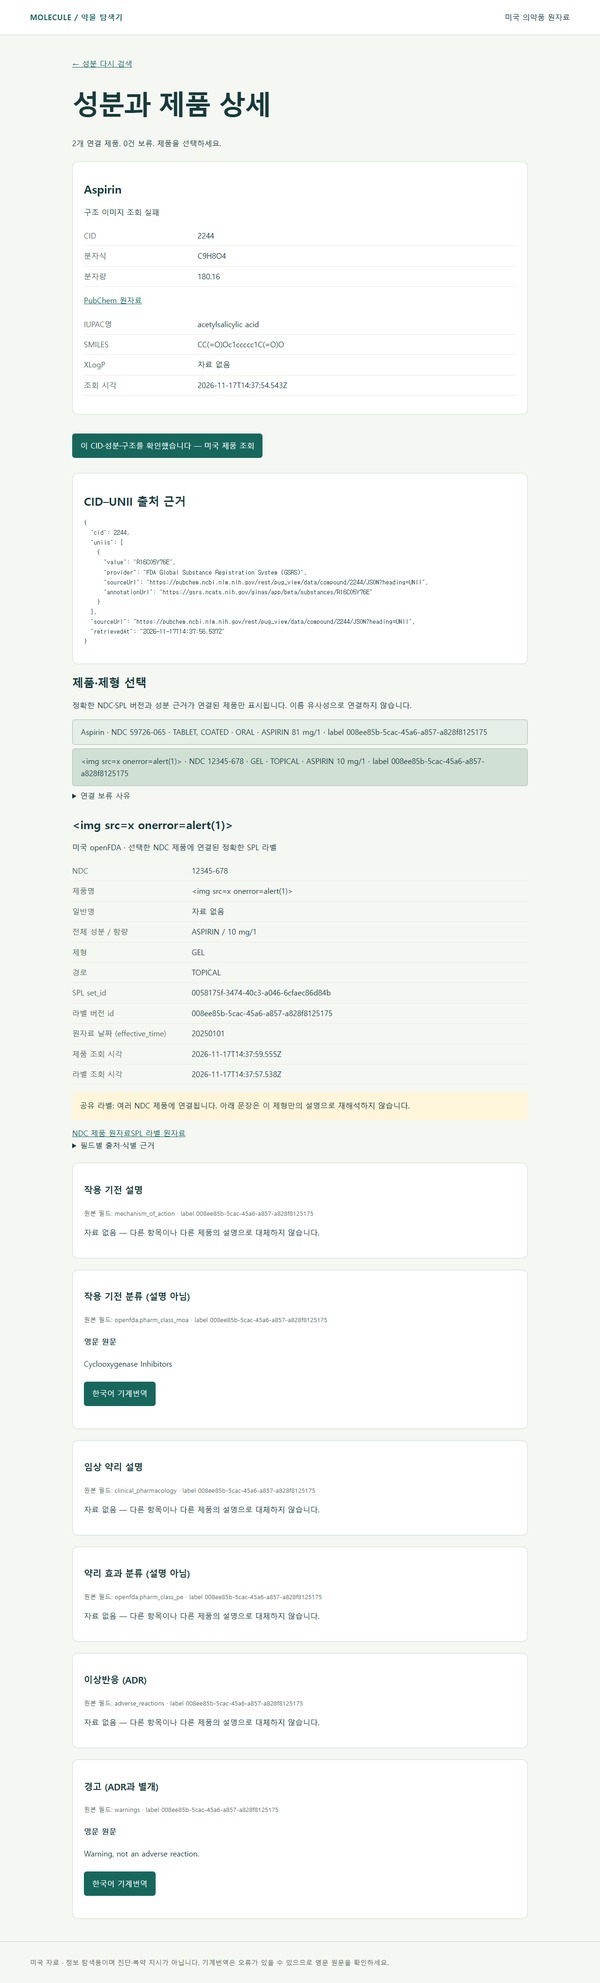
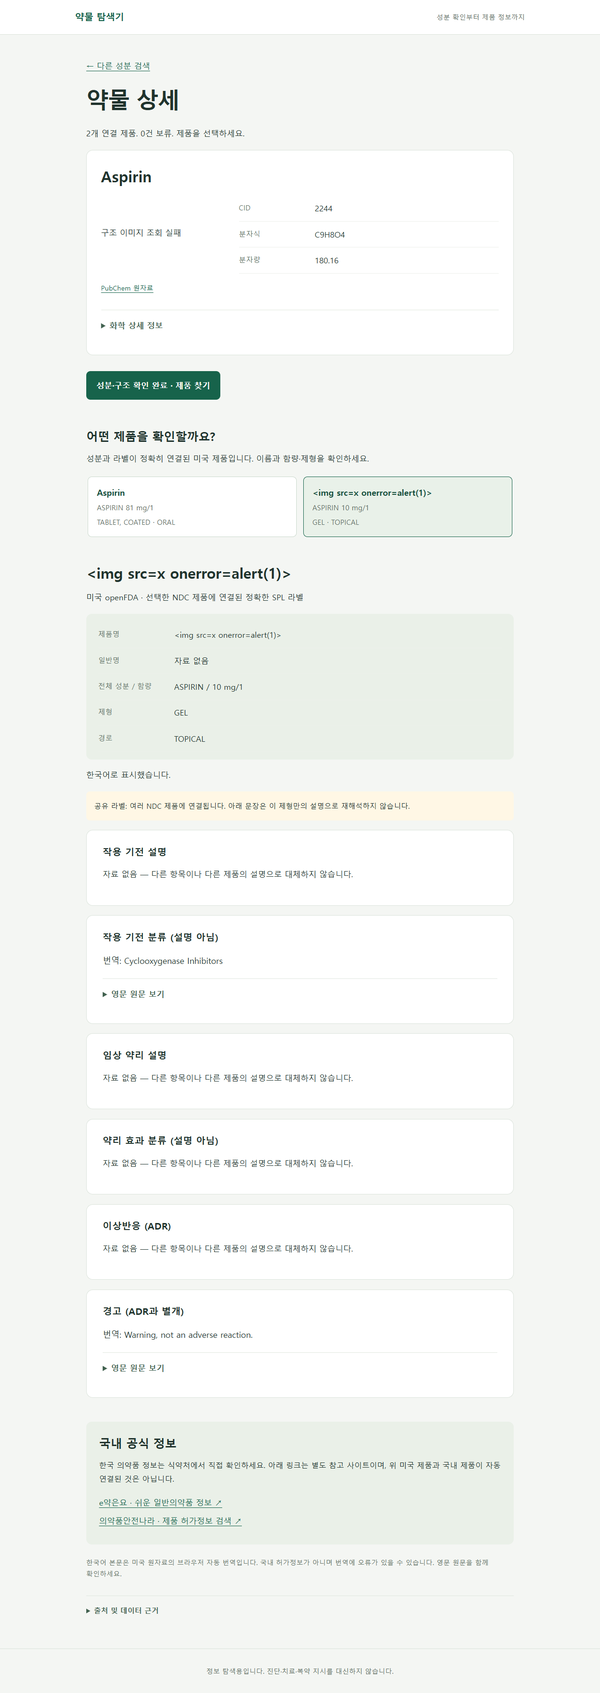
Improve Korean reading layout and translate product labels automatically

diff --git a/js/detail-page.js b/js/detail-page.js
@@ -1,7 +1,7 @@
 import {getCompound,getUnii} from './pubchem.js';
 import {findProducts} from './openfda.js';
 import {linkProducts} from './identity.js';
-import {translate} from './translator.js';
+import {prepareTranslator,translate} from './translator.js';
 import {$,el,field,link,compoundCard,status,validCid,Generation} from './render.js';
 const requests = new Generation(), selection = new Generation();
 const compoundLifetime = new AbortController();
@@ -20,32 +20,59 @@ const sections = [
 function source(parent,title,url) {if(url) parent.append(link(title,url));}
 function select(product) {
   const request = selection.next();
+  const state = el('p',undefined,'translation-state');
+  state.setAttribute('role','status');
+  const prepared = prepareTranslator('en','ko',message=>{if(request.current())status(state,message);});
   const root = $('#label'); root.replaceChildren();
   const {ndc,label,selectionKey} = product;
+  const current = () => request.current() && root.dataset.selectionKey===selectionKey;
   root.dataset.selectionKey = selectionKey;
   root.append(el('h2',ndc.brand_name || ndc.generic_name || '제품명 자료 없음'),el('p','미국 openFDA · 선택한 NDC 제품에 연결된 정확한 SPL 라벨'));
   const details = el('dl');
-  for(const [title,value] of [['NDC',ndc.product_ndc],['제품명',ndc.brand_name],['일반명',ndc.generic_name],['전체 성분 / 함량',ndc.active_ingredients?.map(x=>`${x.name ?? '자료 없음'} / ${x.strength ?? '자료 없음'}`)],['제형',ndc.dosage_form],['경로',ndc.route],['SPL set_id',label.set_id],['라벨 버전 id',label.id],['원자료 날짜 (effective_time)',label.effective_time],['제품 조회 시각',ndc._retrievedAt],['라벨 조회 시각',label._retrievedAt]]) field(details,title,value);
-  root.append(details);
+  for(const [title,value] of [['제품명',ndc.brand_name],['일반명',ndc.generic_name],['전체 성분 / 함량',ndc.active_ingredients?.map(x=>`${x.name ?? '자료 없음'} / ${x.strength ?? '자료 없음'}`)],['제형',ndc.dosage_form],['경로',ndc.route]]) field(details,title,value);
+  root.append(details,state);
   if(product.sharedLabel) root.append(el('p','공유 라벨: 여러 NDC 제품에 연결됩니다. 아래 문장은 이 제형만의 설명으로 재해석하지 않습니다.','notice'));
-  source(root,'NDC 제품 원자료',ndc._sourceUrl); source(root,'SPL 라벨 원자료',label._sourceUrl);
-  const provenance = el('details'); provenance.append(el('summary','필드별 출처·식별 근거'),el('pre',JSON.stringify(product.provenance,null,2)));root.append(provenance);
+  const provenance = $('#selected-evidence');provenance.replaceChildren(el('h3','선택 제품 출처·식별 근거'));
+  const evidenceFields = el('dl');
+  for(const [title,value] of [['NDC',ndc.product_ndc],['SPL set_id',label.set_id],['라벨 버전 id',label.id],['원자료 날짜 (effective_time)',label.effective_time],['제품 조회 시각',ndc._retrievedAt],['라벨 조회 시각',label._retrievedAt]]) field(evidenceFields,title,value);
+  provenance.append(evidenceFields,el('pre',JSON.stringify(product.provenance,null,2)));
+  source(provenance,'NDC 제품 원자료',ndc._sourceUrl);source(provenance,'SPL 라벨 원자료',label._sourceUrl);
+  const pending = [];
   for(const [title,path] of sections) {
     const value = path.split('.').reduce((v,key)=>v?.[key],label);
     const text = Array.isArray(value) ? value.join('\n\n') : value;
-    const section = el('article',undefined,'card');section.append(el('h3',title),el('small',`원본 필드: ${path} · label ${label.id}`));
-    if(!text) {section.append(el('p','자료 없음 — 다른 항목이나 다른 제품의 설명으로 대체하지 않습니다.'));root.append(section);continue;}
-    section.append(el('h4','영문 원문'),el('p',text,'source-text'));
-    const button = el('button','한국어 기계번역');const state = el('p');const translated = el('p',undefined,'translation-text');
-    button.addEventListener('click',async()=> {
-      button.disabled=true;
-      try {
-        const result=await translate(text,'en','ko',message=>{if(request.current())state.textContent=message;});
-        if(request.current() && root.dataset.selectionKey===selectionKey) {translated.textContent=result;state.textContent='한국어 기계번역 · 정확성 보장 없음';}
-      } catch(error) {if(request.current())status(state,error.message,true);}
-      finally {if(request.current())button.disabled=false;}
-    });section.append(button,state,translated);root.append(section);
+    provenance.append(el('p',`${title}: ${path} · label ${label.id}`));
+    const section = el('article',undefined,'card');section.append(el('h3',title));
+    if(!text?.trim()) {section.append(el('p','자료 없음 — 다른 항목이나 다른 제품의 설명으로 대체하지 않습니다.'));root.append(section);continue;}
+    const translated = el('p','한국어 자동 번역 대기 중…','translation-text');
+    const original = el('details');original.append(el('summary','영문 원문 보기'),el('p',text,'source-text'));
+    section.append(translated,original);root.append(section);
+    pending.push({title,text,translated});
   }
+  void (async()=>{
+    try {
+      await prepared;
+      if(!current())return;
+    } catch(error) {
+      if(current()) {
+        status(state,`한국어 번역 실패: ${error.message} 영문 원문을 펼쳐 확인하세요.`,true);
+        for(const item of pending)status(item.translated,'한국어 번역을 사용할 수 없습니다. 아래 영문 원문을 확인하세요.',true);
+      }
+      return;
+    }
+    let failures = 0;
+    for(const {title,text,translated} of pending) {
+      if(!current())return;
+      try {
+        const result=await translate(text,'en','ko',message=>{if(current())status(state,`${title}: ${message}`);});
+        if(current())status(translated,result);
+      } catch(error) {
+        failures++;
+        if(current())status(translated,`한국어 번역 실패: ${error.message} 아래 영문 원문을 확인하세요.`,true);
+      }
+    }
+    if(current())status(state,failures?`한국어 번역 ${failures}개 항목 실패 — 해당 영문 원문을 확인하세요.`:pending.length?'한국어로 표시했습니다.':'번역할 원문 자료가 없습니다.',failures>0);
+  })();
 }
 async function loadProducts() {
   const request=requests.next();$('#more').hidden=true;$('#confirm-compound').disabled=true;
@@ -59,13 +86,14 @@ async function loadProducts() {
     labels.push(...result.labels); ndcs.push(...result.ndcs); lookupHeld.push(...result.lookupHeld);
     const cumulative=linkProducts(compound.CID,evidence,labels,ndcs);
     const activeKey=$('#label').dataset.selectionKey;
-    if(activeKey && !cumulative.products.some(p=>p.selectionKey===activeKey)){selection.next();$('#label').replaceChildren();}
+    if(activeKey && !cumulative.products.some(p=>p.selectionKey===activeKey)){selection.next();$('#label').replaceChildren();$('#selected-evidence').replaceChildren();delete $('#label').dataset.selectionKey;}
     products.clear(); $('#products').replaceChildren(); $('#held').replaceChildren();
     for(const product of cumulative.products) {
       if(products.has(product.selectionKey))continue;
       products.set(product.selectionKey,product);
       const n=product.ndc;
-      const button=el('button',`${n.brand_name || n.generic_name || '제품명 자료 없음'} · NDC ${n.product_ndc} · ${n.dosage_form || '제형 자료 없음'} · ${n.route?.join(', ') || '경로 자료 없음'} · ${n.active_ingredients?.map(x=>`${x.name} ${x.strength || '함량 자료 없음'}`).join(' + ')} · label ${product.label.id}`,'product');
+      const button=el('button',undefined,'product');
+      button.append(el('strong',n.brand_name || n.generic_name || '제품명 자료 없음','product-name'),el('span',n.active_ingredients?.map(x=>`${x.name || '성분 자료 없음'} ${x.strength || '함량 자료 없음'}`).join(' + ') || '성분 자료 없음','product-ingredients'),el('span',`${n.dosage_form || '제형 자료 없음'} · ${n.route?.join(', ') || '경로 자료 없음'}`,'product-meta'));
       button.addEventListener('click',()=>select(product));$('#products').append(button);
     }
     for(const item of [...cumulative.held,...lookupHeld]) $('#held').append(el('p',typeof item==='string'?item:JSON.stringify(item)));
@@ -79,7 +107,7 @@ async function loadProducts() {
   }
   finally {if(request.current())$('#confirm-compound').disabled=false;}
 }
-$('#confirm-compound').addEventListener('click',()=>{skip=0;labels=[];ndcs=[];lookupHeld=[];products.clear();$('#products').replaceChildren();$('#held').replaceChildren();selection.next();$('#label').replaceChildren();loadProducts();});
+$('#confirm-compound').addEventListener('click',()=>{skip=0;labels=[];ndcs=[];lookupHeld=[];products.clear();$('#products').replaceChildren();$('#held').replaceChildren();selection.next();$('#label').replaceChildren();$('#selected-evidence').replaceChildren();delete $('#label').dataset.selectionKey;loadProducts();});
 $('#more').addEventListener('click',loadProducts);
 const cid=new URLSearchParams(location.search).get('cid');
 if(!validCid(cid)) status($('#status'),'유효하지 않은 CID입니다. 검색 화면에서 성분을 선택하세요.',true);
@@ -88,7 +116,8 @@ else {
     compound=await getCompound(cid,{signal:compoundLifetime.signal});
     const card=compoundCard(compound,{signal:compoundLifetime.signal}), fields=el('dl');
     for(const [title,value] of [['IUPAC명',compound.IUPACName],['SMILES',compound.ConnectivitySMILES],['XLogP',compound.XLogP],['조회 시각',compound.retrievedAt]])field(fields,title,value);
-    card.append(fields);$('#compound').append(card);$('#confirm-compound').hidden=false;
+    const chemicalDetails=el('details');chemicalDetails.append(el('summary','화학 상세 정보'),fields);
+    card.append(chemicalDetails);$('#compound').append(card);$('#confirm-compound').hidden=false;
     status($('#status'),'CID와 구조를 확인하세요. 직접 접근·새로고침에서도 제품 조회 전 확인이 필요합니다.');
   } catch(error) {status($('#status'),error.message,true);}
 }

diff --git a/assets/styles.css b/assets/styles.css
@@ -1,1 +1,1 @@
-:root{font-family:system-ui,-apple-system,"Segoe UI",sans-serif;color:#173a3a;background:#f5f7f2;font-size:16px;line-height:1.65}*{box-sizing:border-box}body{margin:0}header{display:flex;justify-content:space-between;gap:1rem;flex-wrap:wrap;padding:1.5rem 5vw;border-bottom:1px solid #cbd6cc;background:#fff}.brand{font-weight:800;letter-spacing:.04em;text-decoration:none}main{max-width:1020px;margin:3rem auto;padding:0 1.5rem}h1{font-size:clamp(2rem,5vw,3.6rem);line-height:1.15;letter-spacing:-.04em}h2{line-height:1.3}a{color:#12645d}button,.button{background:#17675d;color:white;border:0;border-radius:6px;padding:.8rem 1.1rem;cursor:pointer;font:inherit;display:inline-block;text-decoration:none;margin:.5rem .5rem .5rem 0}button:hover,.button:hover{background:#114e46}button:disabled{opacity:.6;cursor:wait}input{font:inherit;padding:.85rem;border:1px solid #819d96;border-radius:6px;min-width:0;width:100%;background:#fff}label{display:block;font-weight:600}.input-row{display:flex;gap:.7rem;align-items:center}.input-row input{flex:1}.input-row button{white-space:nowrap}.card{background:#fff;border:1px solid #cedad0;border-radius:12px;padding:1.5rem;margin:1.5rem 0}.field{display:grid;grid-template-columns:minmax(130px,1fr) 3fr;border-bottom:1px solid #e5ebe5;padding:.5rem 0;gap:1rem}dt{color:#4f685f}dd{margin:0;overflow-wrap:anywhere}img{object-fit:contain;background:#fff;max-width:100%}article>a{margin-right:1rem}.eyebrow{letter-spacing:.15em;font-size:.8rem;color:#576e60;font-weight:700}footer{border-top:1px solid #cbd6cc;padding:2rem 5vw;color:#52665c;font-size:.9rem}.error{color:#9c2929;background:#fff0eb;padding:1rem;border-left:4px solid #b74430}.notice{background:#fff5da;padding:1rem}.source-text,.translation-text{white-space:pre-wrap;overflow-wrap:anywhere}.translation-text{border-left:3px solid #348978;padding-left:1rem}.product{display:block;width:100%;text-align:left;background:#e5eee7;color:#173a3a;border:1px solid #a6beb1}.product:hover{background:#d0e0d4}pre{white-space:pre-wrap;overflow-wrap:anywhere;font-size:.8rem}small{color:#52665c}section{margin-bottom:2rem}[hidden]{display:none!important}:focus-visible{outline:3px solid #b47614;outline-offset:3px}@media(max-width:600px){.input-row{display:block}.field{grid-template-columns:1fr;gap:.1rem}main{margin:2rem auto}}
+:root{font-family:system-ui,-apple-system,"Segoe UI",sans-serif;color:#20332d;background:#f4f6f3;font-size:17px;line-height:1.8;font-synthesis:none}*{box-sizing:border-box}body{margin:0}header{display:flex;justify-content:space-between;align-items:center;gap:1rem;padding:1.1rem max(24px,calc((100vw - 960px)/2));border-bottom:1px solid #dbe3db;background:#fff}header span{font-size:.85rem;color:#5e6e65}.brand{font-weight:800;font-size:1.15rem;text-decoration:none}main{max-width:960px;margin:3rem auto;padding:0 24px}h1{font-size:clamp(2rem,4vw,2.8rem);line-height:1.4;letter-spacing:-.04em;margin:1.4rem 0}h2{font-size:1.45rem;line-height:1.5;margin:0 0 .8rem}h3{font-size:1.2rem;line-height:1.5;margin:0 0 1rem}p{margin:.7rem 0 1.2rem;word-break:keep-all;overflow-wrap:anywhere}a{color:#17634b;text-underline-offset:4px}button,.button{background:#17634b;color:#fff;border:1px solid transparent;border-radius:9px;padding:.85rem 1.2rem;cursor:pointer;font:inherit;font-weight:600;display:inline-block;text-decoration:none;margin:.5rem .5rem .5rem 0}button:hover,.button:hover{background:#104a38}button:disabled{opacity:.6;cursor:wait}input{font:inherit;padding:.95rem;border:1px solid #8da598;border-radius:9px;min-width:0;width:100%;background:#fff}label{display:block;font-weight:600;margin-bottom:.5rem}.input-row{display:flex;gap:.6rem;align-items:center}.input-row input{flex:1}.input-row button{white-space:nowrap}.card{background:#fff;border:1px solid #dce4dc;border-radius:14px;padding:1.8rem;margin:1.2rem 0}.field{display:grid;grid-template-columns:145px 1fr;border-bottom:1px solid #edf0eb;padding:.7rem 0;gap:1rem}dt{color:#647469;font-size:.9rem}dd{margin:0;overflow-wrap:anywhere;font-weight:500}img{object-fit:contain;background:#fff;max-width:100%}#compound>.card,#results>.card{display:grid;grid-template-columns:260px 1fr;gap:1rem 2rem;align-items:center}#compound>.card>h2,#results>.card>h2{grid-column:1/-1;font-size:1.9rem;margin:0}#compound>.card>details,#results>.card>.button{grid-column:1/-1}#compound>.card>img,#results>.card>img{width:240px;height:190px}#compound>.card>dl,#results>.card>dl{margin:0}#compound>.card>a,#results>.card>a:not(.button){font-size:.85rem}footer{border-top:1px solid #dbe3db;padding:2rem 24px;color:#637066;font-size:.85rem;text-align:center}.error{color:#8e3028;background:#fff1ed;padding:1rem;border-left:4px solid #bd5543}.notice{background:#fff7e5;padding:1rem;border-radius:8px;font-size:.9rem}.source-text,.translation-text{white-space:pre-wrap;overflow-wrap:anywhere;line-height:1.95}.translation-text{font-size:1.05rem;color:#20332d}.source-text{color:#58665e;font-size:.9rem}.product-section{margin:3rem 0}#products{display:grid;grid-template-columns:1fr 1fr;gap:.8rem;max-height:480px;overflow:auto;padding:3px}.product{display:flex;flex-direction:column;gap:.35rem;width:100%;text-align:left;background:white;color:#20332d;border:1px solid #cbd9cd;margin:0;padding:1.1rem;font-weight:400;font-size:.9rem;line-height:1.6}.product strong{font-size:1.05rem;color:#174e3b}.product span{display:block;color:#5e6e65}.product:hover,.product[aria-pressed=true]{background:#e9f1e9;border-color:#17634b}.product:focus-visible{outline-offset:-3px}#label{margin:3rem 0}#label>h2{font-size:1.8rem}#label>dl{background:#eaf0e8;border-radius:12px;padding:1rem 1.5rem}#label article{padding:1.8rem 2rem}details{border-top:1px solid #e0e7df;padding:1rem 0;margin-top:1rem}summary{cursor:pointer;font-weight:600;color:#41614f}details[open]>summary{margin-bottom:1rem}.reference-card{background:#eaf0e8;padding:1.6rem;border-radius:12px;margin:3rem 0 1.5rem}.reference-card p{font-size:.95rem}.reference-card a{display:block;margin:.5rem 0}.translation-note{font-size:.85rem;color:#657368;line-height:1.7}.evidence{margin-top:2rem;font-size:.9rem}.evidence pre{font-size:.8rem;white-space:pre-wrap;overflow-wrap:anywhere;background:#fff;padding:1rem}.evidence a{display:block;margin:.4rem 0}.evidence .field{grid-template-columns:170px 1fr}small{color:#617267}section{margin-bottom:1.5rem}[hidden]{display:none!important}:focus-visible{outline:3px solid #aa741f;outline-offset:3px}@media(max-width:650px){header span{display:none}main{margin:1.5rem auto;padding:0 18px}.input-row{display:block}#products{grid-template-columns:1fr;max-height:420px}#compound>.card,#results>.card{grid-template-columns:1fr;gap:.8rem}.field,.evidence .field{grid-template-columns:1fr;gap:.1rem}.card,#label article{padding:1.3rem}h1{font-size:2rem}#compound>.card>img,#results>.card>img{margin:auto}}

diff --git a/tests/auto-browser.js b/tests/auto-browser.js
@@ -1,0 +1,19 @@
+import {chromium} from '@playwright/test';
+import assert from 'node:assert/strict';
+import {readFile,writeFile} from 'node:fs/promises';
+import {server} from '../tools/serve.js';
+await new Promise(r=>server.listening?r():server.once('listening',r));
+const fixture=JSON.parse(await readFile('tests/fixtures/labels.json'));
+const unii=JSON.parse(await readFile('docs/evidence/api-browser.json')).results.find(x=>x.url.includes('pug_view')).body;
+const b=await chromium.launch({channel:'chrome'});const p=await b.newPage();const report={schemaVersion:1,kind:'browser-automation',steps:[]};
+await p.addInitScript(()=>{window.modelCreates=0;window.activation=[];window.failModel=false;window.Translator={create:()=>{window.modelCreates++;window.activation.push(navigator.userActivation.isActive);if(window.failModel)return Promise.reject(new Error('모델 다운로드 실패'));return Promise.resolve({translate:async text=>{await new Promise(r=>setTimeout(r,180));return '한국어: '+text;}});}};});
+await p.route('https://pubchem.ncbi.nlm.nih.gov/**',r=>r.fulfill(r.request().url().includes('pug_view')?{json:unii}:r.request().url().endsWith('/PNG')?{status:404,body:''}:{json:{PropertyTable:{Properties:[{CID:2244,Title:'Aspirin'}]}}}));
+await p.route('https://api.fda.gov/**',r=>{const u=new URL(r.request().url());const records=u.pathname.includes('label')?fixture.labels:fixture.ndcs.filter(n=>u.searchParams.get('search').includes(n.product_ndc));return r.fulfill({json:{meta:{results:{total:records.length}},results:records}});});
+async function open(){await p.goto('http://127.0.0.1:4173/detail.html?cid=2244');await p.locator('#confirm-compound').waitFor();await p.locator('#confirm-compound').click();await p.locator('#products button').first().waitFor();}
+try{
+ await open();await p.locator('#products button').first().click();await p.locator('#products button').nth(1).click();await p.waitForFunction(()=>document.querySelector('.translation-state').textContent==='한국어로 표시했습니다.');
+ assert.equal(await p.evaluate(()=>window.modelCreates),1);assert.deepEqual(await p.evaluate(()=>window.activation),[true]);assert.equal(await p.locator('#label button').count(),0);assert.match(await p.locator('#label').innerText(),/GEL/);assert.equal(await p.locator('#label details[open]').count(),0);assert.equal(await p.locator('#data-evidence').getAttribute('open'),null);assert(!await p.locator('#products').innerText().then(x=>x.includes(fixture.labels[0].id)));report.steps.push({action:'Product gesture automatically starts shared model with activation; rapid switch keeps B; originals and provenance collapsed',verdict:'passed'});
+ await open();await p.evaluate(()=>window.failModel=true);await p.locator('#products button').first().click();await p.waitForFunction(()=>document.querySelector('.translation-state').classList.contains('error'));assert.match(await p.locator('.translation-state').innerText(),/다운로드 실패/);await p.locator('#label details').first().locator('summary').click();assert(await p.locator('#label .source-text').first().isVisible());report.steps.push({action:'Automatic download failure explicit with usable original text',verdict:'passed'});
+ await p.evaluate(()=>window.failModel=false);await p.locator('#products button').nth(1).click();await p.waitForFunction(()=>document.querySelector('.translation-state').textContent==='한국어로 표시했습니다.');assert.equal(await p.evaluate(()=>window.modelCreates),2);report.steps.push({action:'Subsequent product gesture retries rejected model successfully',verdict:'passed'});
+ await p.screenshot({path:'docs/evidence/auto-browser.png',fullPage:true});report.status='passed';
+}catch(e){report.status='failed';report.error=e.stack;process.exitCode=1;}await writeFile('docs/evidence/auto-browser.json',JSON.stringify(report,null,2));console.log(report);await b.close();server.close();

diff --git a/detail.html b/detail.html
@@ -1,1 +1,12 @@
-<!doctype html><html lang="ko"><head><meta charset="utf-8"><meta name="viewport" content="width=device-width,initial-scale=1"><title>성분과 제품 상세 · 약물 탐색기</title><link rel="stylesheet" href="./assets/styles.css"></head><body><header><a class="brand" href="./index.html">MOLECULE / 약물 탐색기</a><span>미국 의약품 원자료</span></header><main><a href="./index.html">← 성분 다시 검색</a><h1>성분과 제품 상세</h1><p id="status" role="status" aria-live="polite"></p><section id="compound"></section><button id="confirm-compound" hidden>이 CID·성분·구조를 확인했습니다 — 미국 제품 조회</button><section id="identity" class="card" hidden></section><section aria-label="미국 제품"><h2>제품·제형 선택</h2><p>정확한 NDC·SPL 버전과 성분 근거가 연결된 제품만 표시됩니다. 이름 유사성으로 연결하지 않습니다.</p><div id="products"></div><button id="more" hidden>다음 20개 라벨 조회</button><details><summary>연결 보류 사유</summary><div id="held"></div></details></section><section id="label" aria-label="선택 제품 원자료"></section></main><footer>미국 자료 · 정보 탐색용이며 진단·복약 지시가 아닙니다. 기계번역은 오류가 있을 수 있으므로 영문 원문을 확인하세요.</footer><script type="module" src="./js/detail-page.js"></script></body></html>
+<!doctype html>
+<html lang="ko"><head><meta charset="utf-8"><meta name="viewport" content="width=device-width,initial-scale=1"><title>약물 상세 · 약물 탐색기</title><link rel="stylesheet" href="./assets/styles.css"></head>
+<body><header><a class="brand" href="./index.html">약물 탐색기</a><span>성분 확인부터 제품 정보까지</span></header><main>
+<a href="./index.html">← 다른 성분 검색</a><h1>약물 상세</h1><p id="status" role="status" aria-live="polite"></p>
+<section id="compound" aria-label="성분과 주요 물성"></section>
+<button id="confirm-compound" hidden>성분·구조 확인 완료 · 제품 찾기</button>
+<section class="product-section" aria-label="제품 선택"><h2>어떤 제품을 확인할까요?</h2><p>성분과 라벨이 정확히 연결된 미국 제품입니다. 이름과 함량·제형을 확인하세요.</p><div id="products"></div><button id="more" hidden>제품 더 보기 · 다음 20개 라벨</button></section>
+<section id="label" aria-label="선택한 제품의 약물 정보"></section>
+<aside class="reference-card"><h2>국내 공식 정보</h2><p>한국 의약품 정보는 식약처에서 직접 확인하세요. 아래 링크는 별도 참고 사이트이며, 위 미국 제품과 국내 제품이 자동 연결된 것은 아닙니다.</p><a href="https://nedrug.mfds.go.kr/searchEasyDrug" target="_blank" rel="noopener noreferrer">e약은요 · 쉬운 일반의약품 정보 ↗</a><a href="https://nedrug.mfds.go.kr/searchDrug" target="_blank" rel="noopener noreferrer">의약품안전나라 · 제품 허가정보 검색 ↗</a></aside>
+<p class="translation-note">한국어 본문은 미국 원자료의 브라우저 자동 번역입니다. 국내 허가정보가 아니며 번역에 오류가 있을 수 있습니다. 영문 원문을 함께 확인하세요.</p>
+<details id="data-evidence" class="evidence"><summary>출처 및 데이터 근거</summary><section id="identity" hidden></section><section id="selected-evidence"></section><details><summary>연결 보류 항목과 사유</summary><div id="held"></div></details></details>
+</main><footer>정보 탐색용입니다. 진단·치료·복약 지시를 대신하지 않습니다.</footer><script type="module" src="./js/detail-page.js"></script></body></html>

diff --git a/js/translator.js b/js/translator.js
@@ -1,23 +1,58 @@
 const models = new Map();
 const cache = new Map();
-export async function translate(text, sourceLanguage, targetLanguage, onState = () => {}) {
-  if (!globalThis.Translator) throw new Error('이 Chrome에서 기본 Translator API를 사용할 수 없습니다. 영어 입력과 원문 조회는 가능합니다.');
+let queue = Promise.resolve();
+
+export function prepareTranslator(sourceLanguage, targetLanguage, onState = () => {}) {
   const pair = `${sourceLanguage}:${targetLanguage}`;
-  const key = `${pair}:${text}`;
-  if (cache.has(key)) { onState('준비 완료 (세션 캐시)'); return cache.get(key); }
-  const options = { sourceLanguage, targetLanguage };
-  if (!models.has(pair)) {
-    const availability = await Translator.availability(options);
-    if (availability === 'unavailable') throw new Error('해당 언어의 번역 모델을 사용할 수 없습니다.');
-    onState(availability === 'available' ? '모델 준비 중' : '번역 모델 다운로드 중 — 최초 실행은 시간이 걸릴 수 있습니다.');
-    const model = await Translator.create({ ...options, monitor(m) {
-      m.addEventListener('downloadprogress', e => onState(`모델 다운로드 ${Math.round(e.loaded * 100)}%`));
-    } });
-    models.set(pair, model);
+  const existing = models.get(pair);
+  if (existing) {
+    if (!existing.ready) existing.listeners.add(onState);
+    onState(existing.state);
+    return existing.promise;
   }
-  onState('번역 중');
-  const result = await models.get(pair).translate(text);
-  cache.set(key, result);
-  onState('준비 완료');
-  return result;
+  const entry = {listeners: new Set([onState]), state: '번역 모델 준비 중 — 최초 실행은 다운로드가 필요할 수 있습니다.', ready: false};
+  const notify = message => {
+    entry.state = message;
+    for (const listener of entry.listeners) listener(message);
+  };
+  notify(entry.state);
+  let creation;
+  try {
+    if (!globalThis.Translator) throw new Error('이 Chrome에서 기본 Translator API를 사용할 수 없습니다. 영어 입력과 원문 조회는 가능합니다.');
+    // Keep create in the product-click activation stack: never await availability here.
+    creation = globalThis.Translator.create({sourceLanguage, targetLanguage, monitor(m) {
+      notify('번역 모델 다운로드 중 — 최초 실행은 시간이 걸릴 수 있습니다.');
+      m.addEventListener('downloadprogress', e => notify(`모델 다운로드 ${Math.round(e.loaded * 100)}%`));
+    }});
+  } catch (error) {
+    creation = Promise.reject(error);
+  }
+  entry.promise = Promise.resolve(creation).then(model => {
+    entry.ready = true;
+    notify('번역 모델 준비 완료');
+    entry.listeners.clear();
+    return model;
+  }, error => {
+    if (models.get(pair) === entry) models.delete(pair);
+    entry.listeners.clear();
+    throw error;
+  });
+  models.set(pair, entry);
+  return entry.promise;
+}
+
+export async function translate(text, sourceLanguage, targetLanguage, onState = () => {}) {
+  const key = `${sourceLanguage}:${targetLanguage}:${text}`;
+  if (cache.has(key)) { onState('준비 완료 (세션 캐시)'); return cache.get(key); }
+  const model = await prepareTranslator(sourceLanguage, targetLanguage, onState);
+  const work = queue.then(async () => {
+    if (cache.has(key)) { onState('준비 완료 (세션 캐시)'); return cache.get(key); }
+    onState('번역 중');
+    const result = await model.translate(text);
+    cache.set(key, result);
+    onState('준비 완료');
+    return result;
+  });
+  queue = work.catch(() => {});
+  return work;
 }

diff --git a/tests/browser.js b/tests/browser.js
@@ -34,7 +34,7 @@ try {
  await step('Rapid search cancels stale result',async()=>{await page.locator('#query').fill('slow');await page.locator('#search-form button').click();await page.locator('#query').fill('aspirin');await page.locator('#search-form button').click();await page.locator('#results .button').waitFor();await page.waitForTimeout(300);assert(!await page.locator('#results').innerText().then(x=>x.includes('STALE')));});
  await step('Detail refresh requires explicit CID confirmation',async()=>{await page.locator('#results .button').click();await page.locator('#confirm-compound').waitFor();await page.reload();await page.locator('#confirm-compound').waitFor();assert.equal(await page.locator('#products button').count(),0);});
  await step('Shared label creates only actual NDC products and escaped malicious text',async()=>{await page.locator('#confirm-compound').click();await page.waitForFunction(()=>document.querySelectorAll('#products button').length===2);assert.equal(await page.locator('#products img').count(),0);await page.locator('#products button').first().click();assert.match(await page.locator('#label').innerText(),/TABLET, COATED/);assert.match(await page.locator('#label').innerText(),/이상반응 \(ADR\)[\s\S]*자료 없음/);});
- await step('Late translation cannot overwrite different product sharing label',async()=>{await page.locator('#label button').first().click();await page.locator('#products button').nth(1).click();await page.waitForTimeout(400);assert.match(await page.locator('#label').innerText(),/GEL/);assert.equal(await page.locator('#label .translation-text').allTextContents().then(x=>x.join('')),'');assert.equal(await page.locator('#label img').count(),0);});
+ await step('Late translation cannot overwrite different product sharing label',async()=>{await page.locator('#products button').nth(1).click();await page.waitForTimeout(400);assert.match(await page.locator('#label').innerText(),/GEL/);await page.waitForFunction(()=>document.querySelector('#label .translation-state').textContent==='한국어로 표시했습니다.');assert.equal(await page.locator('#label button').count(),0);assert.equal(await page.locator('#data-evidence').getAttribute('open'),null);assert.equal(await page.locator('#label img').count(),0);});
  await page.screenshot({path:'docs/evidence/browser-adversarial.png',fullPage:true});
  assert.deepEqual(errors,[]);
  transcript.status='passed';

diff --git a/index.html b/index.html
@@ -1,9 +1,9 @@
 <!doctype html>
 <html lang="ko"><head><meta charset="utf-8"><meta name="viewport" content="width=device-width, initial-scale=1"><title>약물 탐색기 · PubChem</title><link rel="stylesheet" href="./assets/styles.css"></head>
-<body><header><a href="./index.html" class="brand">MOLECULE / 약물 탐색기</a><span>PubChem × openFDA</span></header><main>
-<p class="eyebrow">SOURCE-FIRST DRUG EXPLORER</p><h1>성분에서 시작하는<br>약물 정보 탐색</h1><p>한글 또는 영문으로 검색하고, 화학 구조와 성분을 확인하세요.</p>
+<body><header><a href="./index.html" class="brand">약물 탐색기</a><span>성분 확인부터 제품 정보까지</span></header><main>
+<h1>궁금한 약의 성분을<br>찾아보세요</h1><p>성분과 구조를 확인하고, 제품별 정보를 한국어로 읽어보세요.</p>
 <form id="search-form"><label for="query">성분명</label><div class="input-row"><input id="query" name="query" required maxlength="200" placeholder="예: 아스피린 / aspirin" autocomplete="off"><button>후보 검색</button></div></form>
 <p id="status" role="status" aria-live="polite"></p>
-<section id="translation" hidden class="card"><h2>영문 번역 후보 확인</h2><p id="original"></p><label for="candidate">기계번역 후보 — 성분명이 맞는지 확인하고 수정하세요.</label><input id="candidate" maxlength="200"><button id="confirm-translation" type="button">이 후보로 PubChem 검색</button></section>
+<section id="translation" hidden class="card"><h2>검색할 성분을 확인하세요</h2><p id="original"></p><label for="candidate">영문 후보 — 성분명이 맞는지 확인하고 수정하세요.</label><input id="candidate" maxlength="200"><button id="confirm-translation" type="button">이 성분으로 검색</button></section>
 <section id="results" aria-label="성분 후보"></section>
 </main><footer>미국 자료 · 정보 탐색용이며 의료 조언이 아닙니다. 제품·제형·라벨은 성분 확인 후 별도 선택합니다.<br>한국어 번역: PC Chrome 기본 Translator, 최초 모델 다운로드 필요. 미지원 시 영어 조회 가능.</footer><script type="module" src="./js/search-page.js"></script></body></html>

diff --git a/tools/translation-probe.js b/tools/translation-probe.js
@@ -13,7 +13,7 @@ try {
   const row={input:name,status:await page.locator('#status').innerText(),candidate:await page.locator('#candidate').inputValue()};
   await page.locator('#confirm-translation').click(); await page.locator('#results .button').first().waitFor({timeout:60000});row.pubchem=await page.locator('#results').innerText();report.results.push(row);
  }
- await page.goto('http://127.0.0.1:4173/detail.html?cid=2244');await page.locator('#confirm-compound').waitFor({timeout:60000});await page.locator('#confirm-compound').click();await page.locator('#products button').first().waitFor({timeout:180000});await page.locator('#products button').first().click();await page.locator('#label button').first().click();await page.waitForFunction(()=>[...document.querySelectorAll('.translation-text')].some(x=>x.textContent.trim()),{},{timeout:240000});report.englishToKorean={selectionKey:await page.locator('#label').getAttribute('data-selection-key'),source:await page.locator('#label .source-text').first().innerText(),translated:await page.locator('#label .translation-text').first().innerText()};
+ await page.goto('http://127.0.0.1:4173/detail.html?cid=2244');await page.locator('#confirm-compound').waitFor({timeout:60000});await page.locator('#confirm-compound').click();await page.locator('#products button').first().waitFor({timeout:180000});await page.locator('#products button').first().click();await page.waitForFunction(()=>document.querySelector('.translation-state')?.textContent==='한국어로 표시했습니다.',{},{timeout:240000});report.englishToKorean={selectionKey:await page.locator('#label').getAttribute('data-selection-key'),source:await page.locator('#label .source-text').first().textContent(),translated:await page.locator('#label .translation-text').first().innerText()};
 }catch(error){report.error=error.message;report.lastStatus=await page.locator('#status').innerText().catch(()=> 'browser closed');}
 await page.screenshot({path:'docs/evidence/translation-browser.png',fullPage:true}).catch(()=>{});
 await writeFile('docs/evidence/translation-browser.json',JSON.stringify(report,null,2));console.log(report);await browser.close();server.close();

diff --git a/tests/translator.test.js b/tests/translator.test.js
@@ -1,0 +1,13 @@
+import test from 'node:test';
+import assert from 'node:assert/strict';
+const fresh=()=>import(`../js/translator.js?test=${Math.random()}`);
+test('create starts synchronously; same pair shares pending promise; translations are sequential and cached',async()=>{
+ const original=globalThis.Translator;let creates=0,release,active=0,max=0,calls=0;
+ globalThis.Translator={create:()=>{creates++;return new Promise(r=>release=()=>r({translate:async text=>{calls++;active++;max=Math.max(max,active);await new Promise(r=>setTimeout(r,10));active--;return '한국어 '+text;}}));}};
+ try{const m=await fresh();const a=m.prepareTranslator('en','ko');assert.equal(creates,1);assert.equal(m.prepareTranslator('en','ko'),a);release();await a;assert.deepEqual(await Promise.all([m.translate('a','en','ko'),m.translate('b','en','ko'),m.translate('a','en','ko')]),['한국어 a','한국어 b','한국어 a']);assert.equal(max,1);assert.equal(calls,2);assert.equal(creates,1);}finally{globalThis.Translator=original;}
+});
+test('failed model creation is evicted and next gesture retries; failed translation does not poison queue',async()=>{
+ const original=globalThis.Translator;let creates=0;
+ globalThis.Translator={create:()=>{if(++creates===1)return Promise.reject(new Error('download failed'));return Promise.resolve({translate:async text=>{if(text==='bad')throw new Error('translation failed');return '번역 '+text;}});}};
+ try{const m=await fresh();await assert.rejects(m.prepareTranslator('en','ko'),/download failed/);await m.prepareTranslator('en','ko');await assert.rejects(m.translate('bad','en','ko'),/translation failed/);assert.equal(await m.translate('ok','en','ko'),'번역 ok');assert.equal(creates,2);}finally{globalThis.Translator=original;}
+});

diff --git a/tools/pages-probe.js b/tools/pages-probe.js
@@ -20,8 +20,8 @@ try{
   await page.waitForFunction(()=>document.querySelector('#compound img')?.naturalWidth>0,{},{timeout:60000});
   await page.locator('#confirm-compound').click();await page.locator('#products button').first().waitFor({timeout:180000});await page.locator('#products button').first().click();
   const selectionKey=await page.locator('#label').getAttribute('data-selection-key');assert.equal(JSON.parse(selectionKey).length,3);
-  await page.locator('#label button').first().click();await page.waitForFunction(()=>[...document.querySelectorAll('.translation-text')].some(x=>x.textContent.trim()),{},{timeout:180000});
-  report.steps.push({action:'Exact product/form/route/label plus native Korean label translation on HTTPS Pages',input:name,cid,selectionKey,result:await page.locator('#label').innerText(),verdict:'passed'});
+  await page.waitForFunction(()=>document.querySelector('.translation-state')?.textContent==='한국어로 표시했습니다.',{},{timeout:180000});
+  report.steps.push({action:'Exact product/form/route/label plus native Korean label translation on HTTPS Pages',input:name,cid,selectionKey,result:await page.locator('#label').innerText(),identity:await page.locator('#selected-evidence').textContent(),verdict:'passed'});
   await page.screenshot({path:`docs/evidence/pages-${cid}.png`,fullPage:true});
   if(cid===2244)await page.screenshot({path:'docs/evidence/pages.png',fullPage:true});
   await page.goBack();await page.locator('#query').waitFor();

diff --git a/README.md b/README.md
@@ -1,6 +1,32 @@
 # PubChem 약물 탐색기
 
+- **앱:** https://seeum0121-debug.github.io/pubchem-drug-explorer/
+- **저장소:** https://github.com/seeum0121-debug/pubchem-drug-explorer
+
 빌드 없는 정적 HTML/CSS/JavaScript ES modules 앱입니다. PubChem 화합물과 미국 openFDA 제품·라벨을 구분하여 표시합니다. 의료 조언·복약 지시·국내 의약품 데이터 서비스가 아닙니다.
+
+## 구현된 앱
+
+한글·영문 성분 검색 → 후보 확인 → 구조·분자식·분자량 확인 → 실제 제품 선택 → 한국어 약물 정보 순서로 사용합니다. 아스피린·아세트아미노펜·이부프로펜을 실제 Chrome과 공개 사이트에서 조회했습니다.
+
+- 제품을 누르면 번역 버튼 없이 한국어 본문이 자동으로 표시됩니다. 최초 모델 다운로드·번역 진행·실패 상태가 구분됩니다.
+- 한국어를 먼저 읽고, 필요한 항목의 **영문 원문 보기**를 펼칠 수 있습니다.
+- 제품 목록은 이름·성분/함량·제형/경로에 집중합니다. UUID·NDC/SPL·CID–UNII 원시 근거와 연결 보류 사유는 마지막 **출처 및 데이터 근거**에 접혀 있습니다. 식별 검증은 그대로 유지합니다.
+- 모델 초기화 promise를 언어쌍별로 재사용하고 번역을 순차 실행합니다. 제품을 바꾸면 이전 번역이 새 제품을 덮지 않습니다.
+
+![한국어 중심 상세 화면 — 실제 Chrome](docs/evidence/translation-browser.png)
+
+## 한국어 원자료 재조사
+
+2026-11-17 공식 페이지를 제한적으로 재확인했습니다. **한국어로 번역된 미국 자료와 한국 원자료는 다릅니다.**
+
+| 후보 | 확인된 범위와 접근 조건 | 현재 적용 |
+| --- | --- | --- |
+| [식약처 e약은요](https://nedrug.mfds.go.kr/searchEasyDrug) | 비로그인 공개 검색에 4,730건 및 엑셀다운로드 표시. 일반소비자를 위한 일반의약품 개요이며 모든 허가사항·모든 의약품을 담지 않음 | 앱의 ‘국내 공식 정보’에 외부 참고 링크 |
+| [공공데이터포털 공식 e약은요 API](https://www.data.go.kr/data/15075057/openapi.do) | 한국어 효능·사용법·주의·상호작용·부작용·보관법, 무료이나 **ServiceKey 필수** | 새 가입/API 키 없음 조건 때문에 자동 통합하지 않음 |
+| [식약처 품목 목록 자료실](https://nedrug.mfds.go.kr/bbs/42/10) | 품목 목록 XLSX 후보. 상세 임상 본문 포함 여부·재사용 조건·브라우저 직접 취득 가능성 미확인 | 상세 데이터로 사용하지 않음 |
+
+이번 조사에서 **키 없이 재사용·자동 취득·정확한 성분/제품 대응까지 검증된 한국어 데이터는 확보하지 못했습니다.** 공개 웹 열람 가능성을 API의 ‘이용허락범위 제한 없음’과 동일시하지 않았습니다. 국내 허가정보는 [의약품안전나라 검색](https://nedrug.mfds.go.kr/searchDrug)에서 별도로 확인해야 합니다. 특정 국내 제품을 현재 선택 성분과 추정 연결하지 않았고, 기존 작동 미국 자료도 삭제하지 않았습니다.
 
 ## 실행
 
@@ -12,7 +38,7 @@ Node.js 24 이상에서 `npm ci`, `npm run serve` 실행 후 http://127.0.0.1:41
 2. PubChem CID·성분명·구조를 확인하고 상세 페이지로 이동합니다.
 3. 상세 페이지에서 다시 성분을 확인하면 출처 있는 UNII로 미국 라벨을 20개씩 조회합니다. 추가 조회는 사용자 버튼으로만 실행됩니다.
 4. 정확한 NDC/SPL 버전/성분 근거가 연결된 제품을 선택합니다. 전체 성분·함량·제형·경로는 NDC 레코드에서, 약리·이상반응·경고는 해당 라벨에서 가져옵니다.
-5. 영문 원문 옆 번역 버튼으로 한국어 기계번역을 요청합니다. 기전 분류는 기전 설명과 다르며, 경고는 이상반응을 대신하지 않습니다.
+5. 제품 클릭에서 모델 준비와 한국어 번역이 자동 시작됩니다. 기전 분류는 기전 설명과 다르며, 경고는 이상반응을 대신하지 않습니다. 번역 실패 시 접힌 영문 원문을 펼쳐 확인하세요.
 
 ## 안전한 데이터 해석
 
@@ -28,6 +54,7 @@ Node.js 24 이상에서 `npm ci`, `npm run serve` 실행 후 http://127.0.0.1:41
 
 - `npm test`: fixture 기반 식별/요청 테스트.
 - `node tests/browser.js`: Chrome 브라우저 모의 API/모의 번역 adversarial 테스트.
+- `node tests/auto-browser.js`: 자동 번역 시작·user activation·모델 공유·제품 전환·다운로드 실패/재시도 검증.
 - `node tests/image-browser.js`: JSON/PNG 공통 큐, 이미지 취소·시간 초과·URL 정리, 다음 페이지 실패 후 재시도 테스트.
 - `node tools/pages-probe.js`: 공개 Pages에서 세 성분의 실제 구조·번역·제품 선택 검증.
 - `/tests/index.html`: 브라우저 fixture 테스트 화면.
